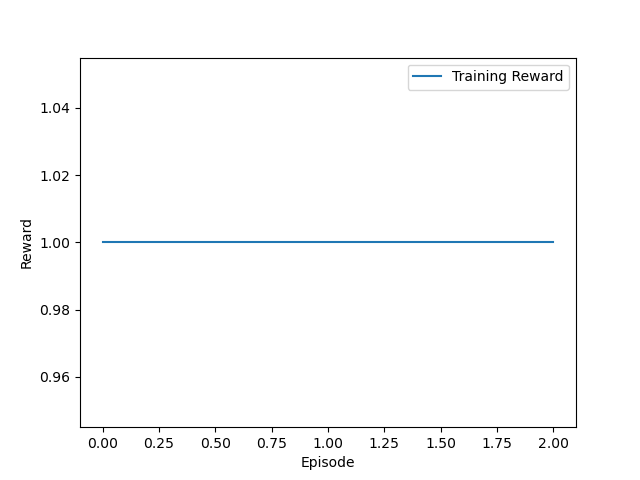
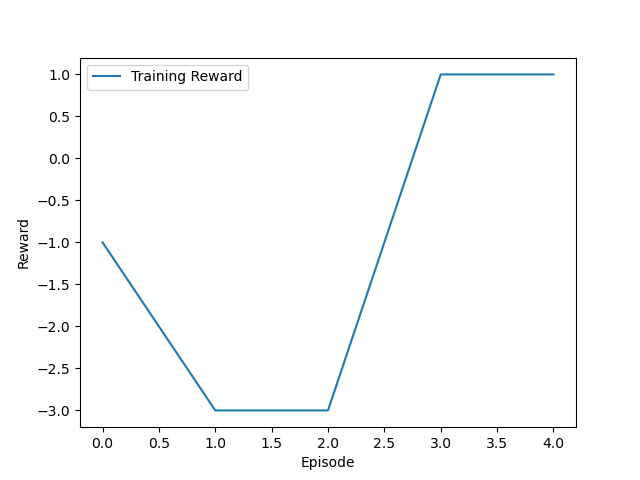
Bug fixes
Fixed batch dimensions of rewards when passing into loss (* and + were finding the dot product, rather than doing element-wise multiplication and addition).

diff --git a/deep_q_agent.py b/deep_q_agent.py
@@ -86,8 +86,8 @@ class environment:
         self.state_approximation = self.aproximate_values()
 
         '''######### IF STATEMENT FOR TESTING, CUTS TRAINING SHORT ########'''
-        #TODO consider starting
-        if(self.cur_time_step == 3):
+        #TODO consider starting at different points in the time line
+        if(self.cur_time_step == STEPS_PER_EP):
             done = 1
         '''################################################################'''
         return reward, done
@@ -116,7 +116,6 @@ class environment:
         return self.get_state_internal(self.cur_time_step)
 
     def aproximate_values(self):
-        #TODO replace with evaluating current timestep images through pretrained CNN's to create state vector
 
         #NOTE: squeeze() simply removes empty (extra in this case) dimensions
         output_vector = [
@@ -171,16 +170,18 @@ Transition = namedtuple('Transition',
                         ('state', 'action', 'next_state', 'reward'))
 
 
-REPLAY_MEMORY = 4
+REPLAY_MEMORY = 8
 BATCH_SIZE = 4
 GAMMA = 0.999
 EPS_START = 0.9
 EPS_END = 0.05
 EPS_DECAY = 200
 TARGET_UPDATE = 10
-NUM_EPISODES = 3
+NUM_EPISODES = 10
+STEPS_PER_EP = 150
 DATA_ROOT = './data/daily/'
 env = environment(DATA_ROOT)
+
 
 class ReplayMemory(object):
 
@@ -337,14 +338,20 @@ def optimize_model():
     # This is merged based on the mask, such that we'll have either the expected
     # state value or 0 in case the state was final.
     next_state_values = torch.zeros(BATCH_SIZE, device=device)
-
     next_state_values[non_final_mask] = target_net(non_final_next_states).max(1)[0].detach()
+
+
     # Compute the expected Q values
-    expected_state_action_values = (next_state_values * GAMMA) + reward_batch
+    # changed from the below to get * and + operations to behave element-wise
+    #expected_state_action_values = (next_state_values * GAMMA) + reward_batch
+    next_state_values = next_state_values.squeeze()*GAMMA
+    reward_batch = reward_batch.squeeze()
+
+    expected_state_action_values = torch.add(next_state_values,reward_batch).unsqueeze(1)
 
     # Compute Huber loss
     criterion = nn.SmoothL1Loss()
-    loss = criterion(state_action_values, expected_state_action_values.unsqueeze(1))
+    loss = criterion(state_action_values, expected_state_action_values)
 
     # Optimize the model
     optimizer.zero_grad()
@@ -391,7 +398,7 @@ for i_episode in range(NUM_EPISODES):
         state = next_state
 
         # Perform one step of the optimization (on the policy network)
-        print(t)
+        print('Step: ', t)
         optimize_model()
         if done:
             episode_durations.append(t + 1)
